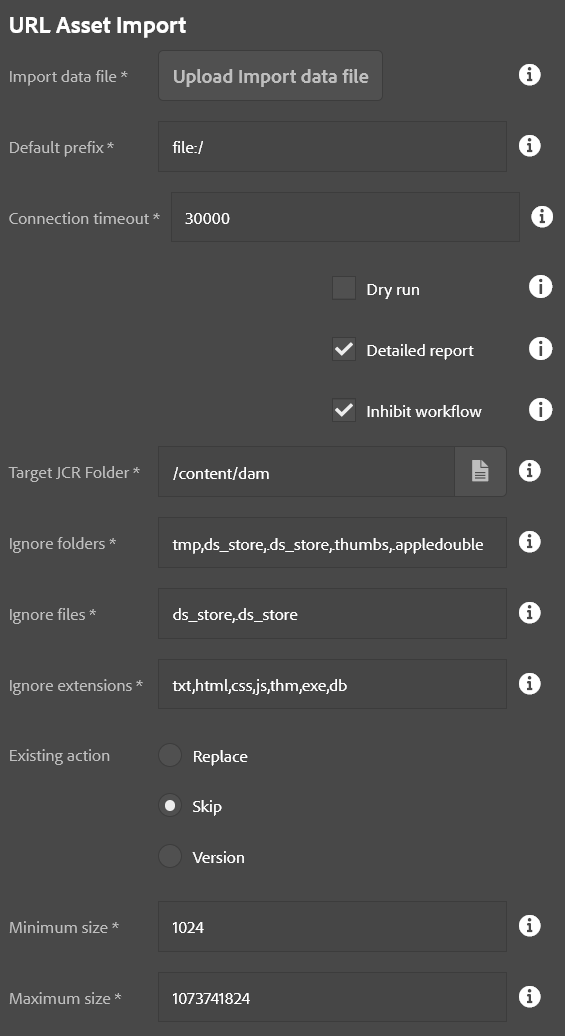
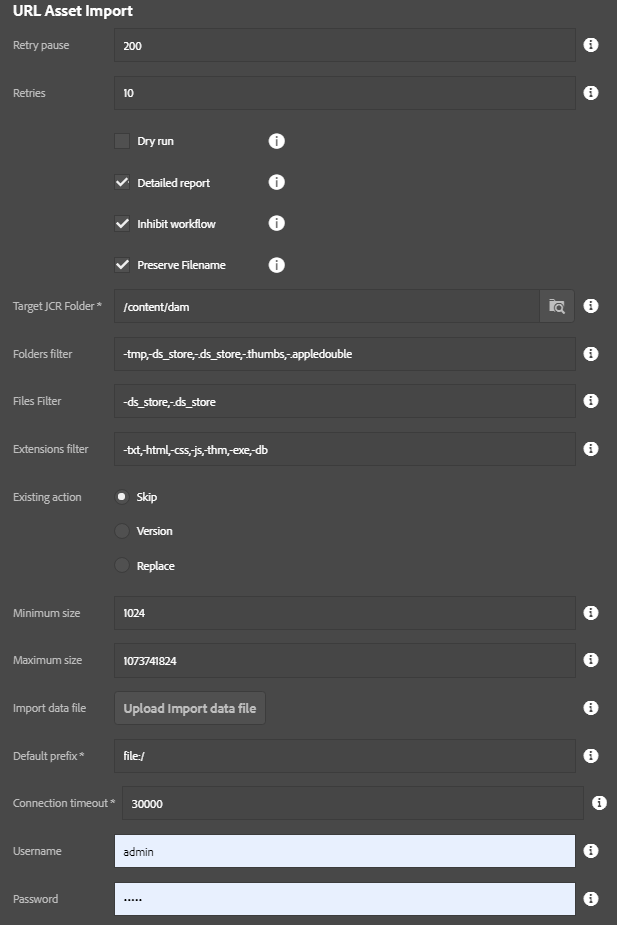
Adobe consulting services/acs aem commons/1644 (#167)
* Adobe-Consulting-Services/acs-aem-commons#1644 updating Asset Ingestor docs

* Adobe-Consulting-Services/acs-aem-commons#1644 updating Url Asset Import Docs

* Adobe-Consulting-Services/acs-aem-commons#1644 updating S3 Asset Ingestor

* providing narrow images

diff --git a/_acs-aem-commons/features/mcp-tools/asset-ingestion/asset-ingestor/index.md b/_acs-aem-commons/features/mcp-tools/asset-ingestion/asset-ingestor/index.md
@@ -11,20 +11,26 @@ This is an example of a high-speed parallel asset ingestor utility.  You can loa
 
 ![Asset Ingestor](./images/asset-ingestor.png)
 
-* **Source**: Location in the local filesystem.  This can be a mapped/mounted network drive too.
+* **Retry pause**: Used as retry pause between createFolder, createAsset actions and etc...
+* **Retries**: Actions to attempt.
+* **Dry run**: If checked, no assets will be imported but a report will be produced.  This is useful for testing out the data file for integrity.
+* **Detailed Report**: If checked, a list of all imported assets will be produced.  If unchecked, only a summary will be provided.
+* **Inhibit Workflow**: If checked, the process will attempt to bypass DAM Update Asset workflow.  This requires the workflow launcher have the following in the _exclude list_ setting: `event-user-data:changedByWorkflowProcess`.  If using this option. also consider using bulk workflow afterwards to process assets after the import has finished completely.
+* **Preserve Filename**: If checked, file name is preserved as asset name.  If unchecked, asset name will support only the following characters: letters, digits, hyphens, underscores, another chars will be replaced with hyphens.
 * **Target JCR Folder**: Where to store the assets in AEM
-* **Ignore folders**: Comma-delimited list of folders to skip, useful for bypassing thumnail folders and such
-* **Ignore files**: Comma-delimited list of files to skip, also useful for bypassing additional metadata files which might not be useful in a DAM setting.
-* **Ignore extensions**: Comma-delimited list of file extensions to skip.
+* **Folders filter**: Comma-delimited list of folders to filter, useful for bypassing thumnail folders and such. If you want to exclude folder name add '-' sign before name. If you want to include name, just write folder name or add '+' sign before name.
+* **Files filter**: Comma-delimited list of files to filter, also useful for bypassing additional metadata files which might not be useful in a DAM setting. If you want to exclude file name add '-' sign before name. If you want to include name, just write file name or add '+' sign before name.
+* **Extensions filter**: Comma-delimited list of file extensions to filter. If you want to exclude extension add '-' sign before name. If you want to include extension, just write extension or add '+' sign before name.
 * **Existing action**: Decide what should happen if the DAM contains a target file already, such as if the ingestion is resumed after a previous abort
     * Replace: Replace the asset already in AEM (this can slow things down compared to skip)
     * Skip: Skip the asset
     * Version: Create a version of the asset and upload a fresh copy.  This is the safest, but slowest, option.
 * **Minimum size**: The minimum file size (in bytes) that is required for importing a file.  Anything smaller is ignored. (0 = no minimum)
 * **Maximum size**: The maximum file size allowed (in bytes); anything larger is skipped. (-1 = no maximum -- NOT RECOMMENDED!)
-* **Dry run**: If checked, no assets will be imported but a report will be produced.  This is useful for testing out the data file for integrity.
-* **Detailed Report**: If checked, a list of all imported assets will be produced.  If unchecked, only a summary will be provided.
-* **Inhibit Workflow**: If checked, the process will attempt to bypass DAM Update Asset workflow.  This requires the workflow launcher have the following in the _exclude list_ setting: `event-user-data:changedByWorkflowProcess`.  If using this option. also consider using bulk workflow afterwards to process assets after the import has finished completely.
+* **Source**: Source folder for content ingestion which can be a local folder or SFTP url.
+* **Connection timeout**: For SFTP urls, this is the connection timeout in milliseconds (default is 30 seconds)
+* **Username**: Username for SFTP connection
+* **Password**: Password for SFTP connection
 
 This process has two steps:
 

diff --git a/_acs-aem-commons/features/mcp-tools/asset-ingestion/url-asset-ingestor/index.md b/_acs-aem-commons/features/mcp-tools/asset-ingestion/url-asset-ingestor/index.md
@@ -30,22 +30,27 @@ The above diagram details the URL Asset Import process:
 
 ![Start process form](images/url-asset-import.png)
 
-- *Import data file*: Specify the excel data file, making sure it is not currently in use elsewhere (close Excel first)
-- *Default prefix*: Added to the source path if the image is not a full URL.  This is useful for loading assets are are all stored in the same place, simplifying the data in the spreadsheet.
-- *Connection timeout*: For HTTP/HTTPS urls, this is the connection timeout in milliseconds (default is 30 seconds)
+- *Retry pause*: Used as retry pause between createFolder, createAsset actions and etc...
+- *Retries*: Actions to attempt.
 - *Dry run*: If checked, no assets will be imported but a report will be produced.  This is useful for testing out the data file for integrity.
 - *Detailed Report*: If checked, a list of all imported assets will be produced.  If unchecked, only a summary will be provided.
 - *Inhibit Workflow*: If checked, the process will attempt to bypass DAM Update Asset workflow.  This requires the workflow launcher have the following in the _exclude list_ setting: `event-user-data:changedByWorkflowProcess`.  If using this option. also consider using bulk workflow afterwards to process assets after the import has finished completely.
+- *Preserve Filename*: If checked, file name is preserved as asset name.  If unchecked, asset name will support only the following characters: letters, digits, hyphens, underscores, another chars will be replaced with hyphens.
 - *Target JCR Folder*: This is the folder used if target folder is unspecified.
-- *Ignore Folders*: List of folders to be ignored.  Can be helpful if trying to avoid some data in the spreadsheet.
-- *Ignore Files*: List of files to be ignored.  Can be helpful if trying to avoid some data in the spreadsheet.
-- *Ignore Extensions*: List of file extensions to be ignored.  Can be helpful if trying to avoid some data in the spreadsheet.
+- *Default prefix*: Added to the source path if the image is not a full URL.  This is useful for loading assets are are all stored in the same place, simplifying the data in the spreadsheet.
+- *Folders filter*: Comma-delimited list of folders to filter, useful for bypassing thumnail folders and such. If you want to exclude folder name add '-' sign before name. If you want to include name, just write folder name or add '+' sign before name.
+- *Files filter*: Comma-delimited list of files to filter, also useful for bypassing additional metadata files which might not be useful in a DAM setting. If you want to exclude file name add '-' sign before name. If you want to include name, just write file name or add '+' sign before name.
+- *Extensions filter*: Comma-delimited list of file extensions to filter. If you want to exclude extension add '-' sign before name. If you want to include extension, just write extension or add '+' sign before name.
 - *Existing Action*: Control what happens when assets already exist.  This doesn't apply to importing renditions (which are always imported if included in the spreadsheet.)
     - Replace: The existing asset (original) is replaced
     - Skip: Don't replace the asset
     - Version: Create a new version of the existing asset and replace the original rendition with the new version.
 - *Minimum Size*: Any file smaller than this size (in bytes) will be skipped.  The default is 1kb.  -1 disables this check.
 - *Maximum Size*: Any file larger than this size (in bytes) will be skipped.  The default size is 1gb.  -1 disables this check.
+- *Import data file*: Specify the excel data file, making sure it is not currently in use elsewhere (close Excel first)
+- *Connection timeout*: For HTTP/HTTPS urls, this is the connection timeout in milliseconds (default is 30 seconds)
+- *Username*: Username for connections that require login
+- *Password*: Password for connections that require login
 
 ## Spreadsheet Format
 

diff --git a/_acs-aem-commons/features/mcp-tools/asset-ingestion/s3-asset-ingestor/index.md b/_acs-aem-commons/features/mcp-tools/asset-ingestion/s3-asset-ingestor/index.md
@@ -12,21 +12,27 @@ This process depends upon the presence of the S3 SDK bundle. If you are using th
 
 ![S3 Asset Ingestor](./images/s3-asset-ingestor.png)
 
-* **Bucket**: Name of the S3 bucket which contains the files.
-* **Access Key**: Amazon Web Services Access Key 
-* **Secret Key**: Amazon Web Services Secret Key
-* **S3 Base Path**: Optional prefix for files in the S3 bucket.
-* **Endpoint URL**: Optional URL if your bucket is in a non-standard location.
+* **Retry pause**: Used as retry pause between createFolder, createAsset actions and etc...
+* **Retries**: Actions to attempt.
+* **Dry run**: If checked, no assets will be imported but a report will be produced.  This is useful for testing out the data file for integrity.
+* **Detailed Report**: If checked, a list of all imported assets will be produced.  If unchecked, only a summary will be provided.
+* **Inhibit Workflow**: If checked, the process will attempt to bypass DAM Update Asset workflow.  This requires the workflow launcher have the following in the _exclude list_ setting: `event-user-data:changedByWorkflowProcess`.  If using this option. also consider using bulk workflow afterwards to process assets after the import has finished completely.
+* **Preserve Filename**: If checked, file name is preserved as asset name.  If unchecked, asset name will support only the following characters: letters, digits, hyphens, underscores, another chars will be replaced with hyphens.
 * **Target JCR Folder**: Where to store the assets in AEM
-* **Ignore folders**: Comma-delimited list of folders to skip, useful for bypassing thumnail folders and such
-* **Ignore files**: Comma-delimited list of files to skip, also useful for bypassing additional metadata files which might not be useful in a DAM setting.
-* **Ignore extensions**: Comma-delimited list of file extensions to skip.
+* **Folders filter**: Comma-delimited list of folders to filter, useful for bypassing thumnail folders and such. If you want to exclude folder name add '-' sign before name. If you want to include name, just write folder name or add '+' sign before name.
+* **Files filter**: Comma-delimited list of files to filter, also useful for bypassing additional metadata files which might not be useful in a DAM setting. If you want to exclude file name add '-' sign before name. If you want to include name, just write file name or add '+' sign before name.
+* **Extensions filter**: Comma-delimited list of file extensions to filter. If you want to exclude extension add '-' sign before name. If you want to include extension, just write extension or add '+' sign before name.
 * **Existing action**: Decide what should happen if the DAM contains a target file already, such as if the ingestion is resumed after a previous abort
     * Replace: Replace the asset already in AEM (this can slow things down compared to skip)
     * Skip: Skip the asset
     * Version: Create a version of the asset and upload a fresh copy.  This is the safest, but slowest, option.
 * **Minimum size**: The minimum file size (in bytes) that is required for importing a file.  Anything smaller is ignored. (0 = no minimum)
 * **Maximum size**: The maximum file size allowed (in bytes); anything larger is skipped. (-1 = no maximum -- NOT RECOMMENDED!)
+* **Bucket**: Name of the S3 bucket which contains the files.
+* **Access Key**: Amazon Web Services Access Key
+* **Secret Key**: Amazon Web Services Secret Key
+* **S3 Base Path**: Optional prefix for files in the S3 bucket.
+* **Endpoint URL**: Optional URL if your bucket is in a non-standard location.
 
 This process has two steps:
 
